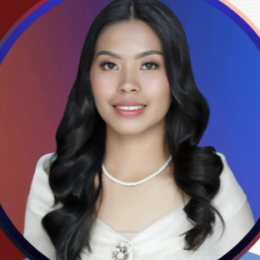
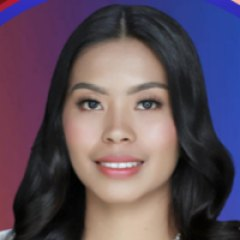
Calendar restyle, one-line defense-date note, better team photo crops
Calendar: no ruled grid; the month is one card of soft rounded day tiles, tinted when something is
on, items as dot pills, today a filled circle, the chosen day a ring; weekday names aligned with the
day numbers. Team photos re-cut as head-and-shoulders centred on each face (they were whole upper
bodies with the head against the top of the circle). The front-page note fits one line at every
desktop width, and text-wrap: pretty keeps narrower screens from leaving a lone word.

diff --git a/assets/css/defense_calendar.css b/assets/css/defense_calendar.css
@@ -59,32 +59,40 @@ body.theme-dark .dc-pf em, body.theme-dark .dc-chip em { background: rgba(255, 2
 .k-holiday { --c: var(--k-holiday); --cb: var(--k-holiday-bg); }
 .dc-key i, .dc-dots i { background: var(--c); }
 
-/* month grid + side panel */
-.dc-body { display: grid; grid-template-columns: minmax(0, 1fr) 290px; gap: 16px; align-items: start; }
-.dc-grid { display: grid; grid-template-columns: repeat(7, minmax(0, 1fr)); border: 1px solid var(--dc-line); border-radius: 16px; overflow: hidden; background: var(--dc-line); gap: 1px; }
-.dc-dow { background: var(--dc-soft); padding: 8px 10px; font-size: 11.5px; font-weight: 800; letter-spacing: .06em; text-transform: uppercase; color: var(--dc-muted); }
-.dc-day { position: relative; min-height: 96px; padding: 7px 7px 6px; border: 0; background: var(--dc-bg); color: var(--dc-ink); text-align: left;
-          display: flex; flex-direction: column; gap: 4px; min-width: 0; transition: background .15s; }
+/* month grid + side panel. No ruled lines: the month is ONE card of soft rounded day tiles; a day with
+   something on it is tinted, its items are small dot pills, today is a filled circle, the chosen day a ring. */
+.dc-body { display: grid; grid-template-columns: minmax(0, 1fr) 300px; gap: 16px; align-items: start; }
+.dc-grid { display: grid; grid-template-columns: repeat(7, minmax(0, 1fr)); gap: 4px; padding: 10px; border-radius: 22px;
+           background: var(--dc-bg); border: 1px solid var(--dc-line); box-shadow: 0 24px 50px -40px rgba(45, 37, 148, .55); }
+.dc-dow { padding: 4px 0 8px 12px; text-align: left; font-size: 11px; font-weight: 800; letter-spacing: .08em; text-transform: uppercase; color: var(--dc-muted); }
+.dc-day { position: relative; min-height: 92px; padding: 6px; border: 0; border-radius: 14px; background: transparent; color: var(--dc-ink); text-align: left;
+          display: flex; flex-direction: column; gap: 5px; min-width: 0; transition: background .15s, box-shadow .15s; }
 .dc-day:hover { background: var(--dc-soft); }
-.dc-day.out { background: var(--dc-soft); color: var(--dc-muted); }
-.dc-day.out .dc-n, .dc-day.out .dc-chips { opacity: .55; }
-.dc-day.sun .dc-n { color: var(--k-closed); }
-.dc-n { font-size: 13px; font-weight: 700; width: 26px; height: 26px; display: grid; place-items: center; border-radius: 50%; }
-.dc-day.today .dc-n { background: var(--dc-accent); color: #fff; }
-.dc-day.picked { box-shadow: inset 0 0 0 2px var(--dc-accent); z-index: 1; }
-.dc-day.past .dc-chip { opacity: .6; }
+.dc-day.has { background: var(--dc-soft); }
+.dc-day.has:hover { box-shadow: inset 0 0 0 1px var(--dc-line); }
+.dc-day.out { background: transparent; }
+.dc-day.out .dc-n, .dc-day.out .dc-chips { opacity: .38; }
+.dc-day.sun .dc-n { color: var(--k-closed); opacity: .8; }
+.dc-n { font-size: 13px; font-weight: 700; width: 28px; height: 28px; display: grid; place-items: center; border-radius: 50%; flex: none; }
+.dc-day.today .dc-n { background: var(--dc-accent); color: #fff; opacity: 1; box-shadow: 0 6px 14px -6px var(--dc-accent); }
+.dc-day.picked { box-shadow: inset 0 0 0 2px var(--dc-accent); }
+.dc-day.past:not(.out) .dc-chips { opacity: .62; }
 .dc-chips { display: flex; flex-direction: column; gap: 3px; min-width: 0; }
-.dc-chip { display: flex; align-items: center; min-width: 0; padding: 2px 6px; border-radius: 6px; background: var(--cb); color: var(--c);
-           font-size: 11.5px; font-weight: 700; line-height: 1.5; white-space: nowrap; overflow: hidden; align-self: flex-start; max-width: 100%; }
-.dc-more { font-size: 11px; font-weight: 700; color: var(--dc-muted); padding-left: 4px; }
+.dc-chip { display: flex; align-items: center; gap: 5px; min-width: 0; padding: 2px 8px 2px 6px; border-radius: 999px; background: var(--dc-bg); color: var(--dc-ink);
+           font-size: 11.5px; font-weight: 600; line-height: 1.55; white-space: nowrap; overflow: hidden; align-self: flex-start; max-width: 100%;
+           box-shadow: 0 1px 2px rgba(20, 12, 90, .08); }
+.dc-chip::before { content: ""; width: 7px; height: 7px; border-radius: 50%; background: var(--c); flex: none; }
+.dc-chip em { width: auto; height: auto; background: none !important; margin: 0; font-size: 10px; color: var(--c); order: 2; }
+.dc-more { font-size: 11px; font-weight: 700; color: var(--dc-muted); padding-left: 6px; }
 .dc-dots { display: none; gap: 3px; justify-content: center; }
 .dc-dots i { width: 6px; height: 6px; border-radius: 50%; }
 
-.dc-side { border: 1px solid var(--dc-line); border-radius: 16px; background: var(--dc-bg); padding: 14px; position: sticky; top: 12px; }
+.dc-side { border: 1px solid var(--dc-line); border-radius: 22px; background: var(--dc-bg); padding: 16px; position: sticky; top: 12px;
+           box-shadow: 0 24px 50px -40px rgba(45, 37, 148, .55); }
 .dc-side-h { display: flex; justify-content: space-between; align-items: center; gap: 8px; font-weight: 800; font-size: 14px; margin-bottom: 10px; }
 .dc-x { border: 1px solid var(--dc-line); background: none; color: var(--dc-accent); border-radius: 999px; padding: 4px 10px; font-size: 12px; font-weight: 700; }
 .dc-side ul { list-style: none; margin: 0; padding: 0; display: grid; gap: 8px; max-height: 470px; overflow: auto; }
-.dc-item { display: flex; gap: 10px; align-items: flex-start; padding: 9px 10px; border-radius: 12px; background: var(--cb); border-left: 0; }
+.dc-item { display: flex; gap: 10px; align-items: flex-start; padding: 10px; border-radius: 14px; background: var(--dc-soft); }
 .dc-when { flex: none; width: 40px; text-align: center; font-size: 10.5px; font-weight: 800; text-transform: uppercase; color: var(--c); line-height: 1.1; }
 .dc-when b { display: block; font-size: 18px; }
 .dc-what { flex: 1; min-width: 0; font-size: 13.5px; line-height: 1.35; }
@@ -96,7 +104,8 @@ body.theme-dark .dc-pf em, body.theme-dark .dc-chip em { background: rgba(255, 2
 @media (max-width: 860px) {
     .dc-body { grid-template-columns: 1fr; }
     .dc-side { position: static; }
-    .dc-day { min-height: 58px; align-items: center; padding: 6px 2px; }
+    .dc-grid { padding: 6px; gap: 2px; border-radius: 18px; }
+    .dc-day { min-height: 54px; align-items: center; padding: 5px 2px; border-radius: 12px; }
     .dc-chips { display: none; }                 /* phones: dots in the cell, the list underneath */
     .dc-dots { display: flex; }
     .dc-month { min-width: 0; font-size: 18px; }

diff --git a/index.php b/index.php
@@ -235,7 +235,7 @@ $ic_dl = '<svg class="i" viewBox="0 0 24 24" fill="none" stroke="currentColor" s
         .chk { font-size: 12.5px; font-weight: 700; line-height: 1.4; padding: 6px 10px; border-radius: 10px; color: var(--brand-ink); background: var(--brand-soft); border: 1px solid var(--brand-line); }
         .chk span { display: block; font-size: 10.5px; font-weight: 800; letter-spacing: .08em; text-transform: uppercase; color: var(--muted); }
         .chk.paper { background: #fff; border-style: dashed; color: var(--ink); }   /* happens in person, outside the system */
-        .note { margin-top: 26px; padding: 14px 18px; border-radius: 14px; background: var(--card); border: 1px solid var(--line); color: var(--muted); font-size: 14.5px; }
+        .note { margin-top: 26px; padding: 14px 18px; border-radius: 14px; background: var(--card); border: 1px solid var(--line); color: var(--muted); font-size: 14.5px; text-wrap: pretty; }
         .note b { color: var(--ink); }
 
         /* "Who defends next": up to four published days, each a date tile + the rooms; the full calendar is schedule.php */
@@ -461,7 +461,7 @@ $ic_dl = '<svg class="i" viewBox="0 0 24 24" fill="none" stroke="currentColor" s
                     </div>
                 </aside>
             </div>
-            <div class="note rv"><b>You don't pick your defense date.</b> Your Focal Person schedules your whole section, and the date appears in iSubmit once the research office publishes it.</div>
+            <div class="note rv"><b>You don't pick your defense date.</b> Your Focal Person schedules your whole section, and the date shows up here once it is published.</div>
         </div>
     </section>
 
